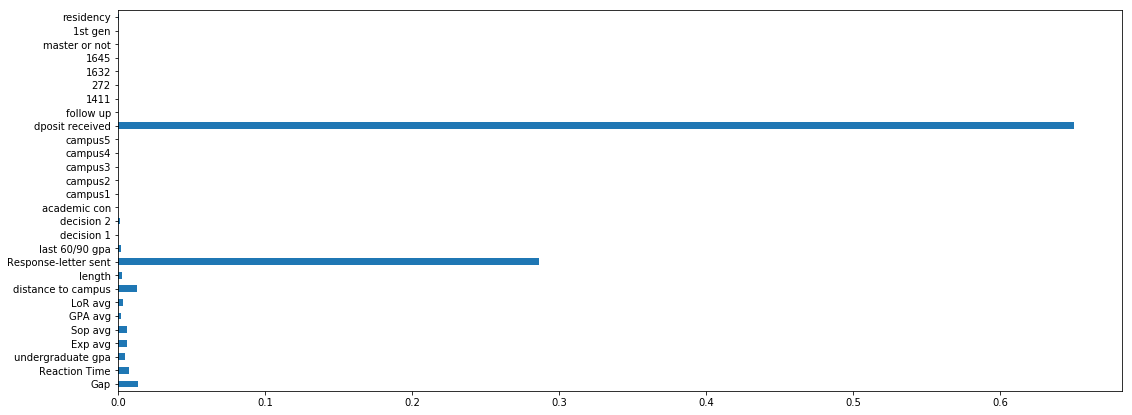
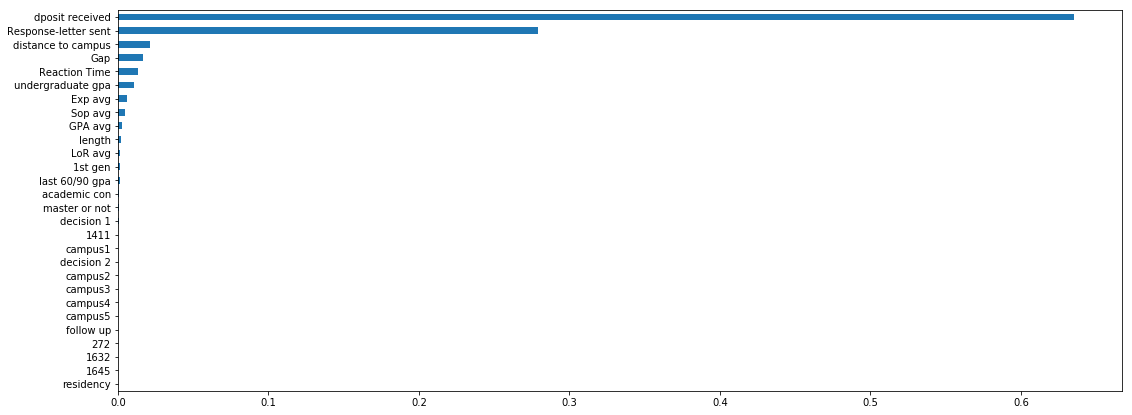
variable importance

diff --git a/_posts/2018-09-29-decision_strategy.md b/_posts/2018-09-29-decision_strategy.md
@@ -947,7 +947,7 @@ plt.show()
 
 ```python
 %matplotlib inline
-pd.Series(tree.feature_importances_, index=X.columns).plot.barh(figsize=(18,7));
+pd.Series(tree.feature_importances_, index=X.columns).sort_values(0, ascending=True).plot.barh(figsize=(18,7));
 ```
 
 
